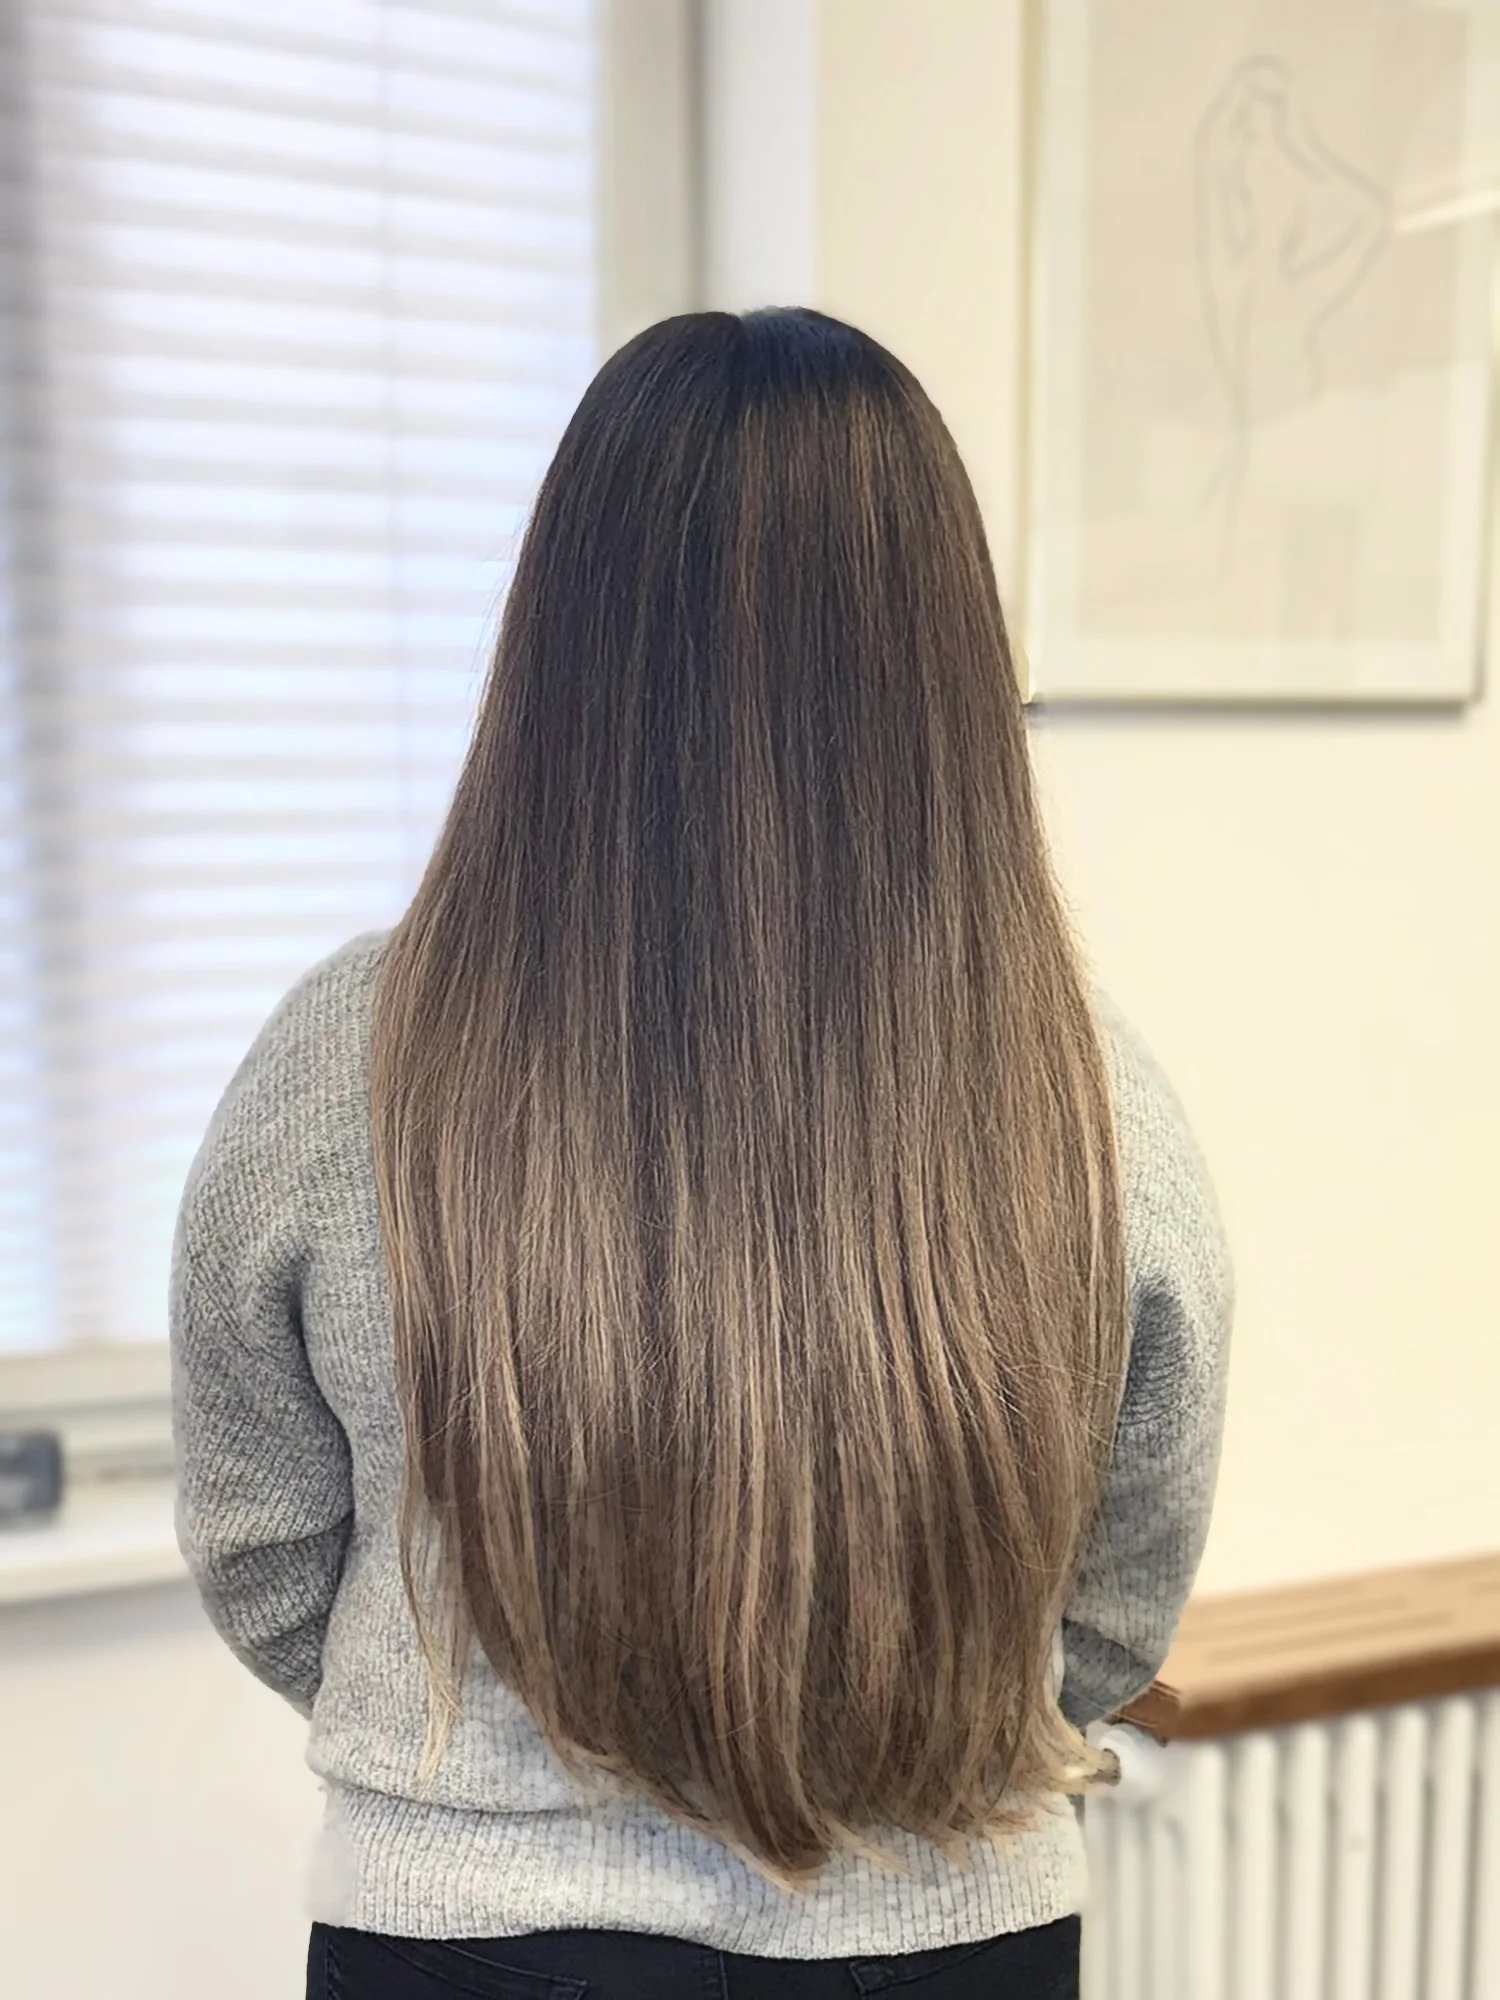
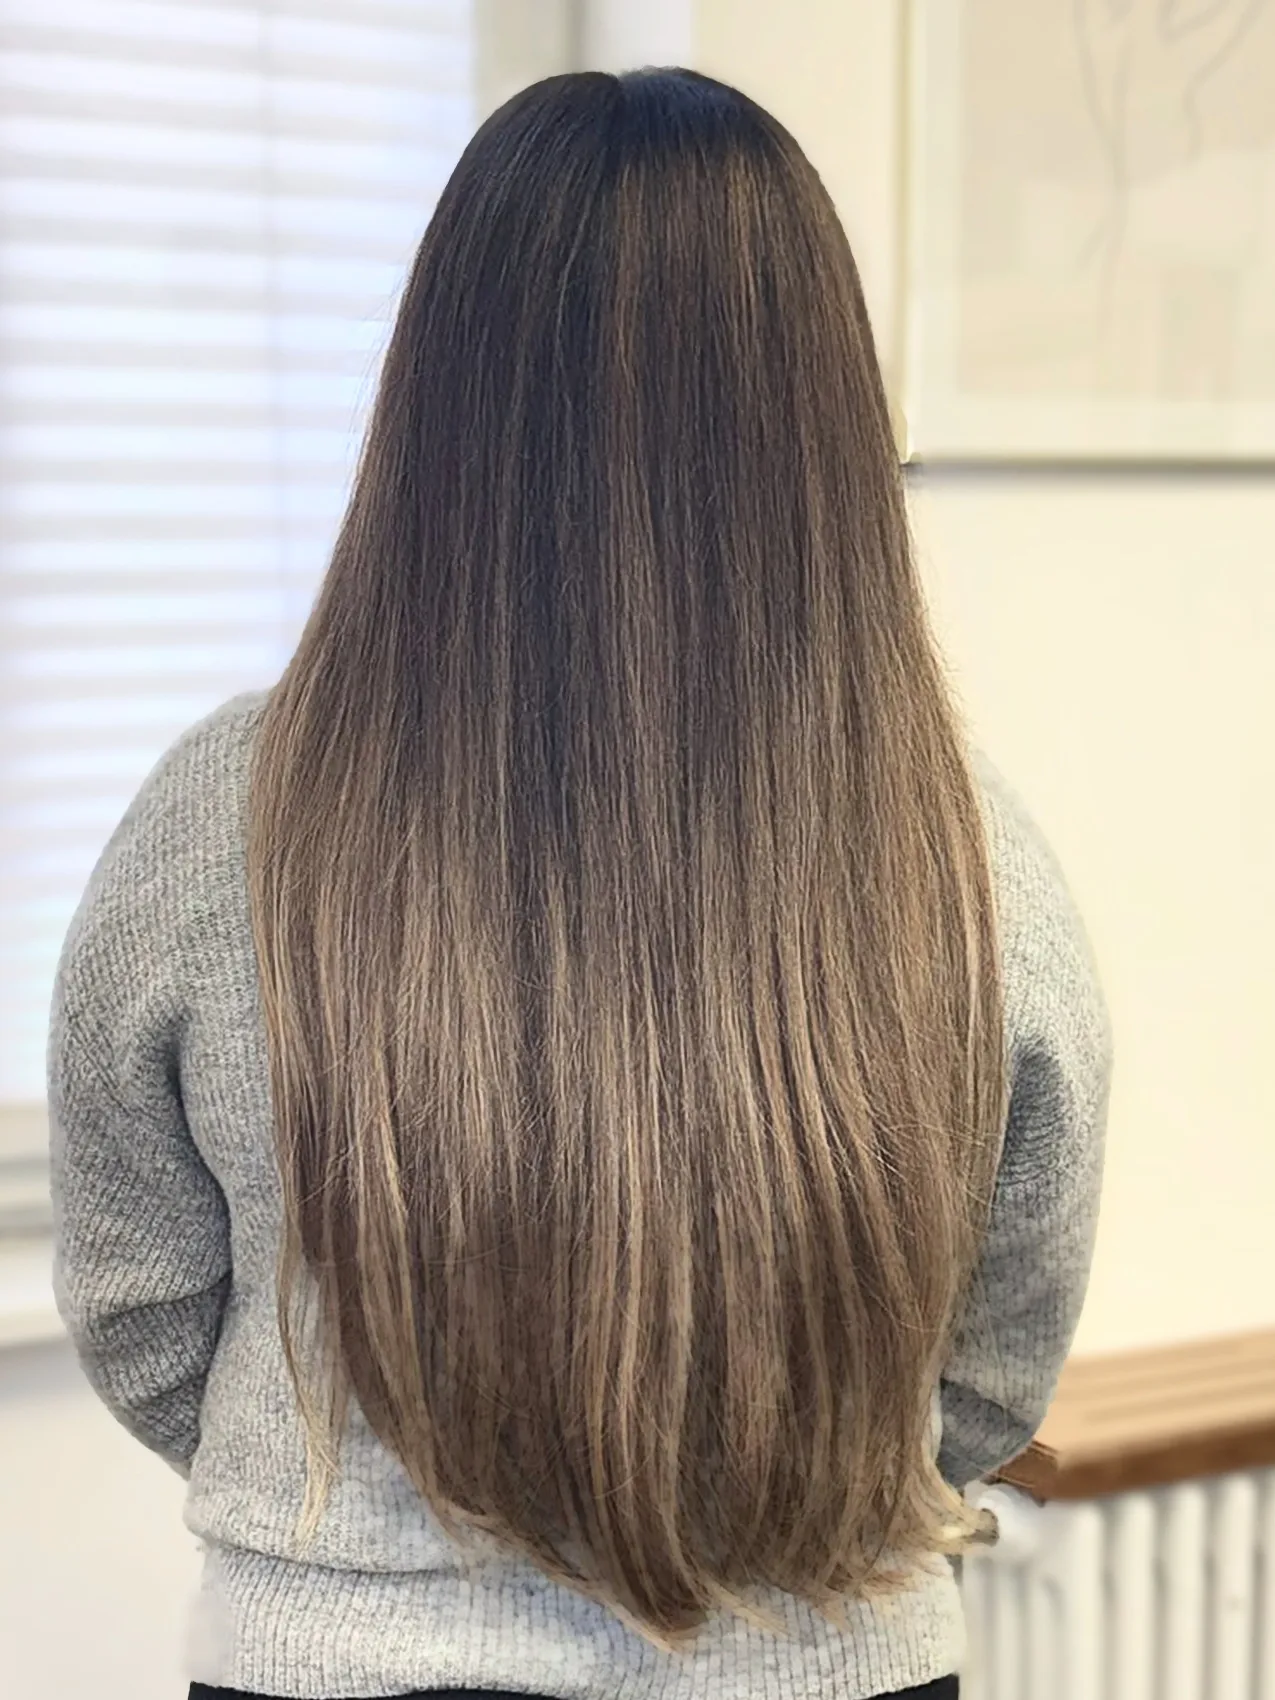
Galerie: Damen-Foto näher zugeschnitten

diff --git a/index.html b/index.html
@@ -1985,7 +1985,7 @@ function renderGal(k,ch,gr,n){const keys=[...Object.keys(GL).filter(g=>FOTO[g]),
  document.getElementById(ch).innerHTML=keys.map(g=>`<button type="button" class="tab${g===k?" on":""}" data-g="${g}">${GL[g]}</button>`).join("");
  const el=document.getElementById(gr);
  if(k==="videos"){el.innerHTML=VIDEO.map(v=>`<div class="gph vid" role="button" tabindex="0" aria-label="Video aus unserem Salon abspielen" data-video="video_v${v}.mp4?v=1" style="background-image:url(m_video_v${v}.webp?v=1)"><span class="play" aria-hidden="true">▶</span></div>`).join("");return}
- el.innerHTML=FOTO[k].map(p=>BA[p]?`<div class="gph ba" role="slider" tabindex="0" aria-label="Vorher und Nachher vergleichen" aria-valuemin="0" aria-valuemax="100" aria-valuenow="50" style="background-image:url(m_foto_${BA[p][0]}.webp?v=2)"><div class="baA" style="background-image:url(m_foto_${BA[p][1]}.webp?v=2)"></div><span class="bal"></span><span class="bak" aria-hidden="true">‹›</span><span class="bt l">Vorher</span><span class="bt r">Nachher</span></div>`:`<div class="gph${WIDE[p]?" wide":""}" role="button" tabindex="0" aria-label="${GL[k]}: ${WIDE[p]?"Produkte in unserem Salon":"Arbeit aus unserem Salon"}, Foto in groß öffnen" data-full="foto_${p}.webp?v=3" style="background-image:url(m_foto_${p}.webp?v=3)"></div>`).join("")}
+ el.innerHTML=FOTO[k].map(p=>BA[p]?`<div class="gph ba" role="slider" tabindex="0" aria-label="Vorher und Nachher vergleichen" aria-valuemin="0" aria-valuemax="100" aria-valuenow="50" style="background-image:url(m_foto_${BA[p][0]}.webp?v=2)"><div class="baA" style="background-image:url(m_foto_${BA[p][1]}.webp?v=2)"></div><span class="bal"></span><span class="bak" aria-hidden="true">‹›</span><span class="bt l">Vorher</span><span class="bt r">Nachher</span></div>`:`<div class="gph${WIDE[p]?" wide":""}" role="button" tabindex="0" aria-label="${GL[k]}: ${WIDE[p]?"Produkte in unserem Salon":"Arbeit aus unserem Salon"}, Foto in groß öffnen" data-full="foto_${p}.webp?v=4" style="background-image:url(m_foto_${p}.webp?v=4)"></div>`).join("")}
 /* Vorher/Nachher-Schieber: ziehen (Maus/Finger), Pfeiltasten */
 function baSet(t,p){p=Math.max(0,Math.min(100,p));t.style.setProperty("--p",p+"%");t.setAttribute("aria-valuenow",Math.round(p))}
 let BAT=null;
